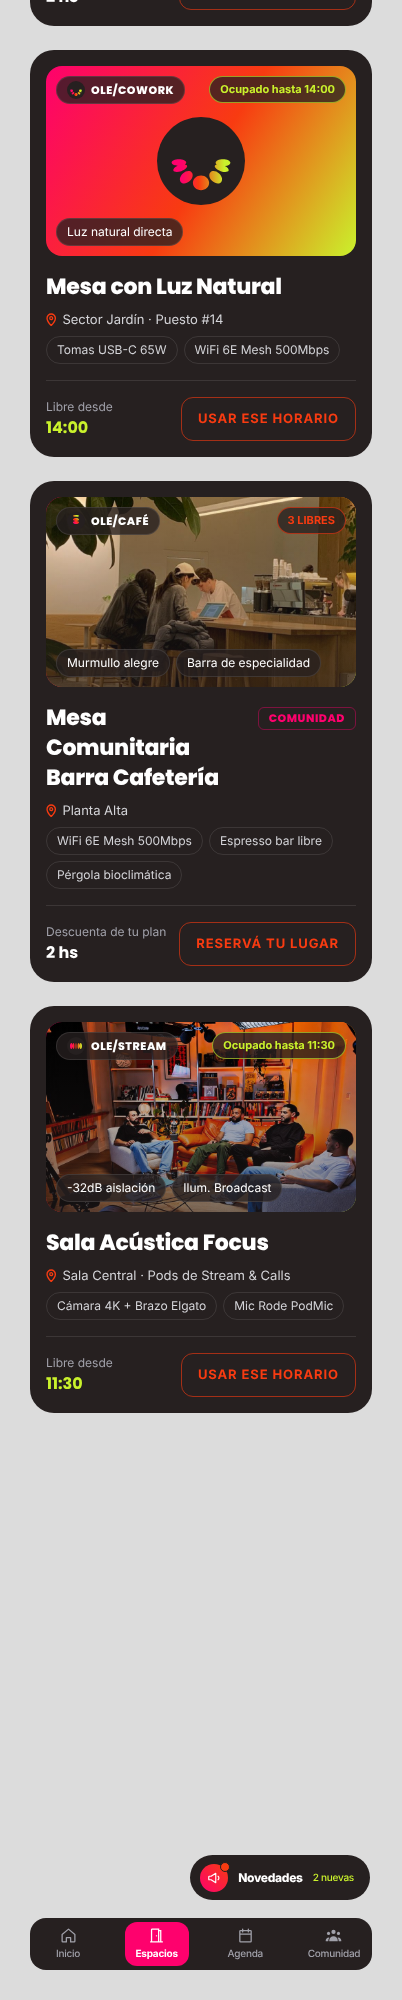
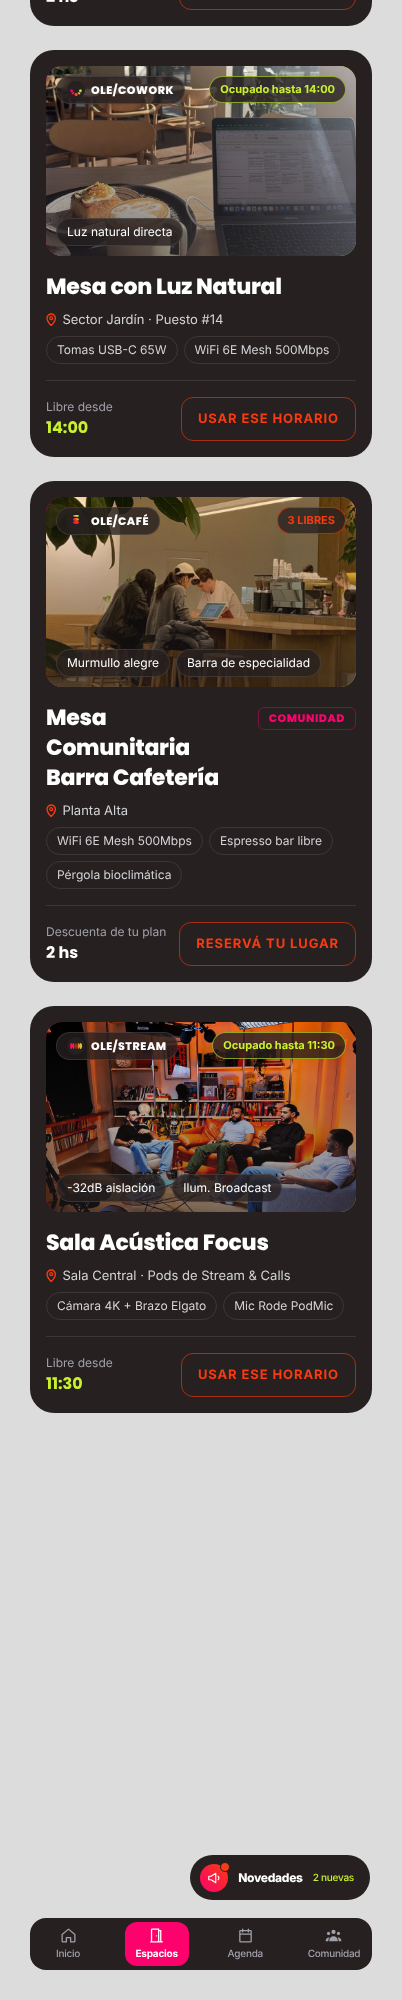
Etapa 8 — Espacios (revisión 2: foto de la Mesa con Luz Natural)
Claude-Session: https://claude.ai/code/session_0116dvceVdoahqryjdDfmCBu

Changed region(s): [[0.0896, 0.031, 0.8955, 0.155]]

diff --git a/data/mock/espaciosOlegario.ts b/data/mock/espaciosOlegario.ts
@@ -2,7 +2,7 @@ import type { Espacio } from '../../src/models/espacio';
 
 // DATOS DE PRUEBA (no reales): espacios y ocupación tomados de Figma (pantalla ESPACIOS), hasta el
 // servidor (Etapa 13). Las ocupaciones son relativas al día en que se abre la app.
-// Fotos provistas por la responsable (Drive, 2026-11-04); la Mesa con Luz Natural todavía no tiene.
+// Fotos provistas por la responsable (Drive, 2026-11-04).
 export function espaciosDePrueba(hoy: Date = new Date()): Espacio[] {
   const a = (hora: number, minuto = 0, dias = 0) => {
     const fecha = new Date(hoy);
@@ -25,6 +25,7 @@ export function espaciosDePrueba(hoy: Date = new Date()): Espacio[] {
     },
     {
       id: 'mesa-luz-natural',
+      foto: require('../../assets/imagenes/espacios/mesa-luz-natural.jpg'),
       servicio: 'cowork',
       nombre: 'Mesa con Luz Natural',
       tipo: 'Puesto individual',

diff --git a/docs/DECISIONES_Y_PENDIENTES.md b/docs/DECISIONES_Y_PENDIENTES.md
@@ -51,7 +51,7 @@
 | D-45 | Home sin reserva: tarjeta que invita a reservar (miembro) o a explorar los espacios (invitado, que no puede reservar).                                                                                                                                                                                                                                                                 | Estado no diseñado en Figma.                                                                                       | —                                                                       | 2026-11-03 | Bajo    | Provisional, a revisar                                                              |
 | D-46 | "Ver detalles" y "Cómo llegar" abren un detalle de reserva provisorio (cuándo y dónde); check-in, PIN y mapa en la Etapa 9.                                                                                                                                                                                                                                                            | No hay diseño (P-31).                                                                                              | Botones sin acción.                                                     | 2026-11-03 | Bajo    | Provisional                                                                         |
 | D-47 | Reglas de reserva: horario libre las 24 hs en pasos de 30 min, hasta 3 días de anticipación, cancelación hasta 30 min antes, toda reserva descuenta horas del plan (80 hs, 42 usadas: dato de prueba).                                                                                                                                                                                 | Decisión de la responsable.                                                                                        | —                                                                       | 2026-11-04 | Medio   | Aplicada                                                                            |
-| D-48 | Fotos de los espacios provistas por la responsable (Drive, 2026-11-04), recortadas en horizontal y optimizadas en `assets/imagenes/espacios/`. La Mesa con Luz Natural no tiene foto y muestra el degradado de marca con el ícono del servicio.                                                                                                                                        | Revisión de la Etapa 8.                                                                                            | —                                                                       | 2026-11-04 | Bajo    | Aplicada                                                                            |
+| D-48 | Fotos de los espacios provistas por la responsable (Drive, 2026-11-04), recortadas en horizontal y optimizadas en `assets/imagenes/espacios/`. Si un espacio no tiene foto, se muestra el degradado de marca con el ícono del servicio.                                                                                                                                                | Revisión de la Etapa 8.                                                                                            | —                                                                       | 2026-11-04 | Bajo    | Aplicada                                                                            |
 | D-49 | Se quitan "Gratis" y "1H/DÍA INC." de Figma: el pie muestra cuántas horas descuenta. El botón de la tarjeta de horario dice "CAMBIAR" (abre el selector) en lugar de "CONFIRMAR". Los puntos de color bajo los días no se muestran (sin regla definida).                                                                                                                               | Coherencia con la regla "toda reserva descuenta horas".                                                            | Dejar como Figma.                                                       | 2026-11-04 | Bajo    | Aprobada "CAMBIAR" y pie con horas (2026-11-04)                                     |
 | D-50 | Filtros por servicio (Todos, COWORK, STREAM, CAFÉ, NETWORK) bajo el buscador; espacios ocupados ofrecen "Usar ese horario"; confirmación y selector de horario en panel inferior con el estilo de la app; "PERFECTO" en naranja sólido como D-41.                                                                                                                                      | Pedido de filtrar desde el Home; pantallas no diseñadas en Figma.                                                  | —                                                                       | 2026-11-04 | Bajo    | Provisional, a revisar                                                              |
 
@@ -118,7 +118,6 @@
 
 - **P-42** ¿"CREATIVO" debe llevar el degradado de Figma? Requiere instalar `@react-native-masked-view/masked-view` (gratuita).
 - **P-43** ¿Te parecen bien las correcciones de texto de D-42?
-- **P-44** ¿Hay foto de la Mesa con Luz Natural? Hoy usa el degradado (D-48).
 - **P-45** ¿Qué indican los puntos de color bajo los días en Figma (ESPACIOS)?
 
 ### Grupo 5 — Recursos que faltan

diff --git a/docs/ESTADO_DEL_PROYECTO.md b/docs/ESTADO_DEL_PROYECTO.md
@@ -46,7 +46,7 @@
 
 - Etapa 6: bienvenidas (collage interactivo), acceso, registro e inicio de sesión con validaciones; 45 pruebas. Capturas en `docs/capturas-app/etapa-6/`.
 - Etapa 7: Home con saludo, banner, reserva actual (en curso / próxima / sin reserva / invitado) y servicios; 60 pruebas. Capturas en `docs/capturas-app/etapa-7/`.
-- Etapa 8: Espacios con semana, buscador, filtro por servicio, horario, tarjetas con estado, reserva y cancelación simuladas; 75 pruebas. Capturas en `docs/capturas-app/etapa-8/`. Revisión 1: fotos reales de los espacios (Drive); "CAMBIAR" y el pie con horas aprobados.
+- Etapa 8: Espacios con semana, buscador, filtro por servicio, horario, tarjetas con estado, reserva y cancelación simuladas; 75 pruebas. Capturas en `docs/capturas-app/etapa-8/`. Revisiones 1 y 2: fotos reales de los cuatro espacios (Drive); "CAMBIAR" y el pie con horas aprobados.
 
 ## Pendientes abiertos
 
@@ -58,7 +58,6 @@
 - P-41: ¿la cookie de la promo es de avena o de chocolate?
 - P-42: ¿"CREATIVO" con degradado (requiere una dependencia)?
 - P-43: ¿aprueba las correcciones de texto de D-42?
-- P-44: ¿hay foto de la Mesa con Luz Natural?
 - P-45: ¿qué indican los puntos de color bajo los días?
 
 ## Último informe de cierre
